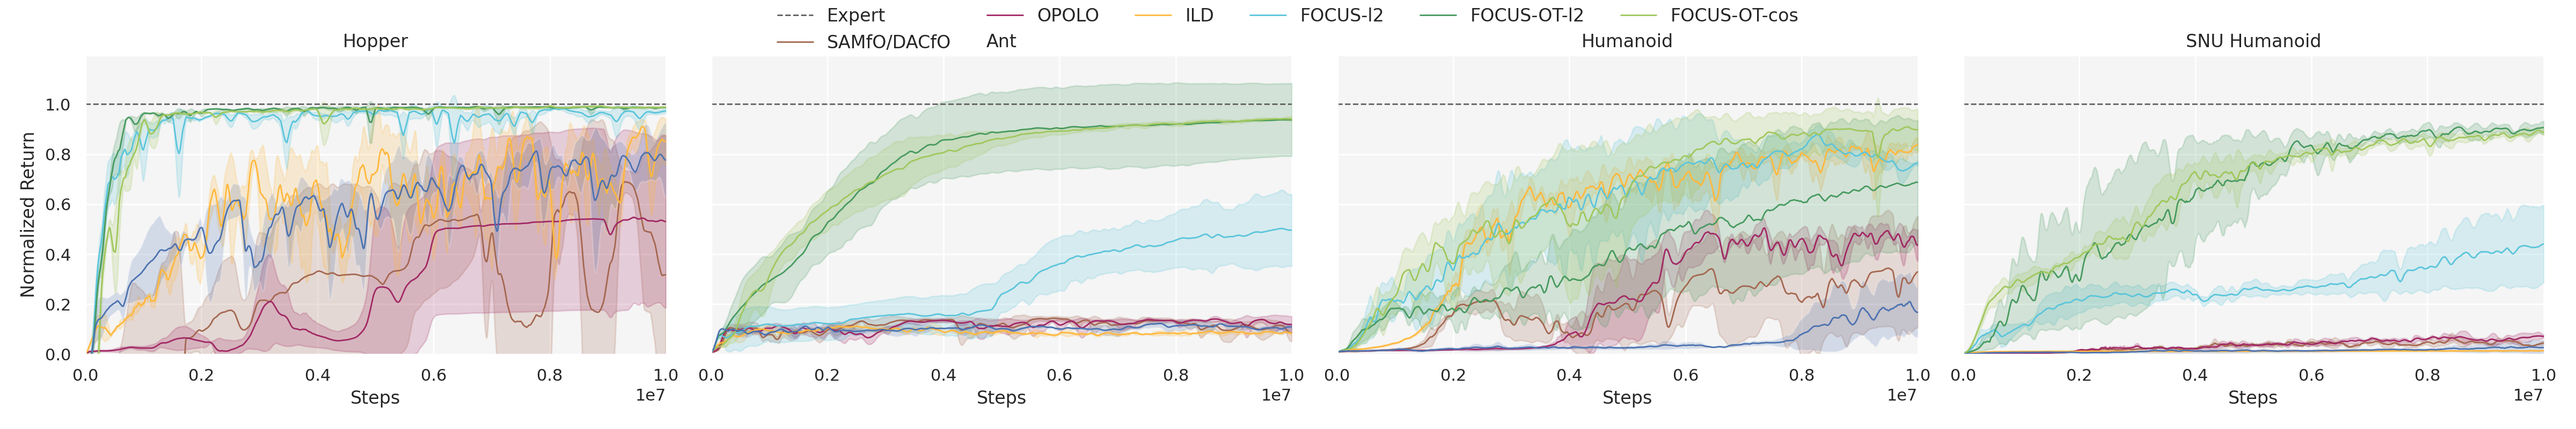
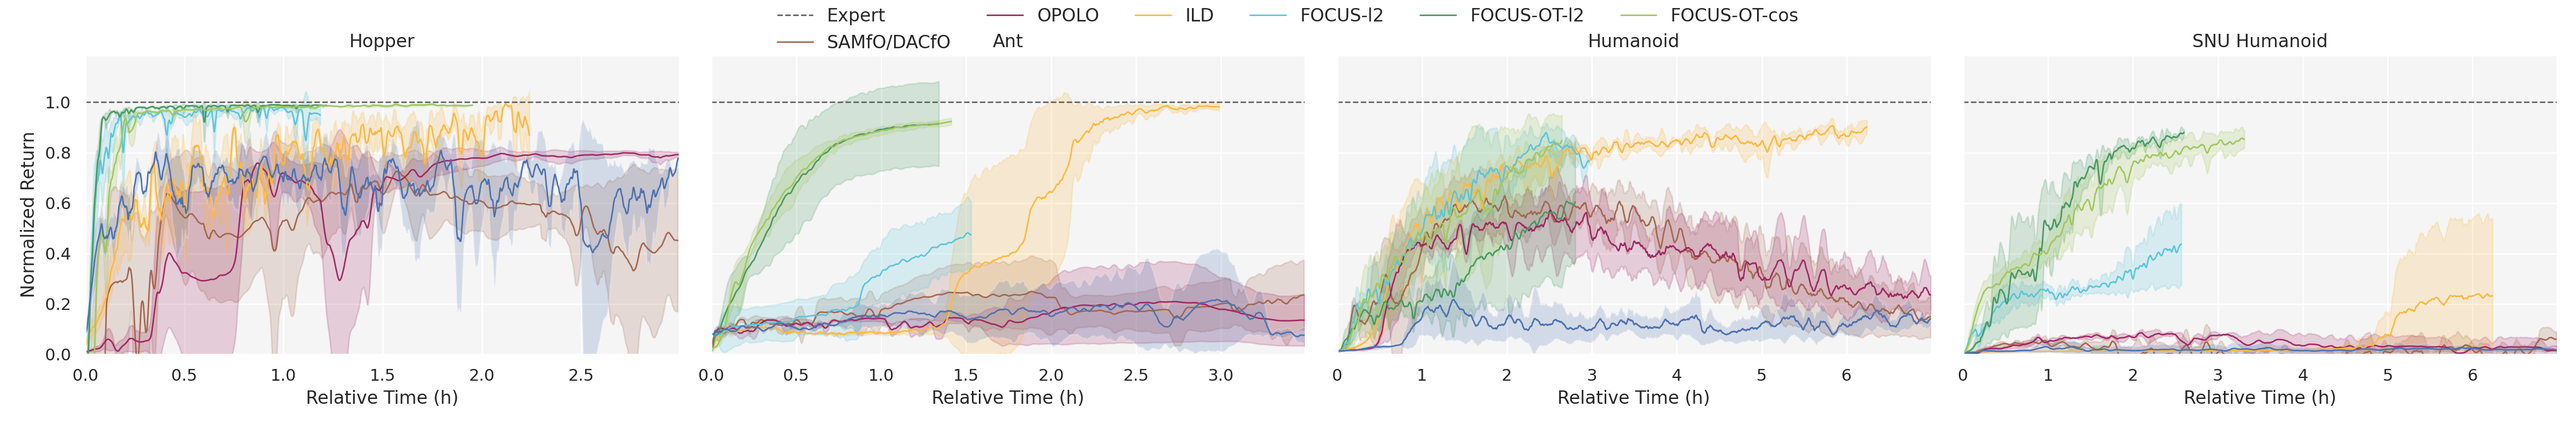
update

diff --git a/plotter/plotter.py b/plotter/plotter.py
@@ -86,6 +86,18 @@ def get_linestyle(algo_disp):
     return "-"
 
 
+def get_time_axis_max(env_data):
+    max_time = 0.0
+    for algo_name, algo_data in env_data.items():
+        for times in algo_data.get("agent_times", []):
+            max_time = max(max_time, max(times))
+
+    print("Max time across all algos:", max_time)
+    return max_time
+
+def convert_seconds_to_hours(seconds):
+    return seconds / 3600.0
+
 def plot_results_like_first(
     data,
     output_path,
@@ -100,10 +112,12 @@ def plot_results_like_first(
     shared_legend=True,  # one legend for the whole figure
     n_cols=4,
     ylim_bottom=0.0,
+    x_axis="steps",
 ):
     """data[env][algo] = {
         "data": [np.array(n_points), ...]  # per-seed
         "agent_steps": [...],
+        "agent_times": [...],
     }
     """
     if not data:
@@ -142,12 +156,20 @@ def plot_results_like_first(
             ax.set_visible(False)
             continue
 
-        if max_steps is not None and max_steps > 0:
-            x = np.linspace(0, max_steps, num=n_points)
-            x_label = "Steps"
-        else:
-            x = np.linspace(0.0, 1.0, num=n_points)
-            x_label = "Training progress"
+        x = None
+        x_label = None
+        if x_axis == "time":
+            max_time = get_time_axis_max(env_data)
+            max_time = convert_seconds_to_hours(max_time)
+            x = np.linspace(0, max_time, num=n_points)
+            x_label = "Relative Time (h)"
+        if x is None:
+            if max_steps is not None and max_steps > 0:
+                x = np.linspace(0, max_steps, num=n_points)
+                x_label = "Steps"
+            else:
+                x = np.linspace(0.0, 1.0, num=n_points)
+                x_label = "Training progress"
 
         # Expert mean for normalization / line
         expert_mean = None
@@ -181,8 +203,19 @@ def plot_results_like_first(
             algo_data = env_data[algo_key]
             if not algo_data["data"]:
                 continue
+            
+            agent_times = algo_data.get("agent_times", [])
+            agent_times = [convert_seconds_to_hours(t) for t in agent_times]
+            min_times_x = min([t[-1] for t in agent_times])
+            min_times_x_grid = np.linspace(0, min_times_x, num=n_points)
+            values = []
+            for i in range(len(algo_data["data"])):
+                times = agent_times[i]
+                returns = algo_data["data"][i]
+                ep_ret_inter = np.interp(min_times_x_grid, times, returns)
+                values.append(ep_ret_inter)
 
-            values = np.vstack(algo_data["data"])
+            values = np.vstack(values)
             mean = values.mean(axis=0)
             std = values.std(axis=0)
 
@@ -201,7 +234,7 @@ def plot_results_like_first(
             lw = 1 if algo_key.lower().startswith("focus") else 1
 
             ax.plot(
-                x,
+                min_times_x_grid,
                 mean,
                 label=algo_disp,
                 linewidth=lw,
@@ -209,7 +242,7 @@ def plot_results_like_first(
                 linestyle=linestyle,
             )
             ax.fill_between(
-                x,
+                min_times_x_grid,
                 mean - std,
                 mean + std,
                 alpha=0.2,
@@ -278,6 +311,7 @@ def plot_single_env(
     normalize_expert=True,
     add_expert_line=True,
     ylim_bottom=0.0,
+    x_axis="steps",
 ):
     """Plots a single environment into its own file.
     env_data is data[env_name] with the same structure as in plot_results_like_first.
@@ -300,12 +334,20 @@ def plot_single_env(
         plt.close(fig)
         return
 
-    if max_steps is not None and max_steps > 0:
-        x = np.linspace(0, max_steps, num=n_points)
-        x_label = "Steps"
-    else:
-        x = np.linspace(0.0, 1.0, num=n_points)
-        x_label = "Training progress"
+    x = None
+    x_label = None
+    if x_axis == "time":
+        x = get_time_axis_max(env_data)
+        print("TIME AXIS:", x)
+        if x is not None:
+            x_label = "Relative Time (min)"
+    if x is None:
+        if max_steps is not None and max_steps > 0:
+            x = np.linspace(0, max_steps, num=n_points)
+            x_label = "Steps"
+        else:
+            x = np.linspace(0.0, 1.0, num=n_points)
+            x_label = "Training progress"
 
     # Expert stats
     expert_mean = None
@@ -504,6 +546,7 @@ def main(
     sync_remote=False,
     update_group_runs=False,
     create_plots=False,
+    x_axis="time",
 ):
     plotter_dir = Path(__file__).resolve().parent
     grouped_exp_path = plotter_dir / "grouped_exp_urls.yaml"
@@ -545,6 +588,7 @@ def main(
             data[env_name][algo] = {
                 "data": [],
                 "agent_steps": [],
+                "agent_times": [],
             }
             for exp in algo_values:
                 local_dir = Path(exp["logdir"])
@@ -558,11 +602,24 @@ def main(
                     )
 
                 if create_plots:
+                    need_tb_reload = False
                     try:
                         ep_rew = np.load(local_dir / "my_ep_rewards_hist.npy")
                         steps = np.load(local_dir / "my_ep_steps_hist.npy")
                         times = np.load(local_dir / "my_ep_times_hist.npy")
-                    except:
+                        if x_axis == "time":
+                            if (
+                                ep_rew.size == 0
+                                or steps.size == 0
+                                or times.size == 0
+                                or ep_rew.size != steps.size
+                                or times.size != steps.size
+                            ):
+                                need_tb_reload = True
+                    except Exception:
+                        need_tb_reload = True
+
+                    if need_tb_reload:
                         # load tb file
                         tb_dir = local_dir / "tb"
 
@@ -603,7 +660,7 @@ def main(
                     print(times[:10])
                     print(len(steps), len(ep_rew), len(times))
 
-                    max_steps = MAX_STEPS_PER_ENV.get(env_name)
+                    max_steps = None if x_axis == "time" else MAX_STEPS_PER_ENV.get(env_name)
                     if max_steps is not None:
                         keep_mask = steps <= max_steps
                         steps = steps[keep_mask]
@@ -612,8 +669,6 @@ def main(
                     if steps.size == 0:
                         continue
 
-                    unique_steps, unique_idx = np.unique(steps, return_index=True)
-                    ep_rew = ep_rew[unique_idx]
 
                     print(steps[-1])
 
@@ -627,23 +682,40 @@ def main(
                         x_pad = np.pad(x, (pad, pad), mode="reflect")
                         kernel = np.ones(window, dtype=np.float64) / window
                         y = np.convolve(x_pad, kernel, mode="valid")
-                        return y
+                        return y[:-1]
 
                     n_points = 5000
-
-                    # Interpolate to a shared step grid
-                    if max_steps is None:
-                        max_steps = float(unique_steps[-1])
-                    step_grid = np.linspace(0, max_steps, num=n_points)
-                    ep_rew_inter = np.interp(step_grid, unique_steps, ep_rew)
+                    if x_axis == "time":
+                        print(f"Using wall time for {env_name} {algo}")
+                        rel_times = times - times[0]
+                        print(rel_times[:10])
+                        max_time = float(rel_times[-1])
+                        time_grid = np.linspace(0, max_time, num=n_points)
+                        ep_rew_inter = np.interp(time_grid, rel_times, ep_rew)
+                        step_grid = None
+                    elif x_axis == "steps":
+                        # Interpolate to a shared step grid
+                        if max_steps is None:
+                            max_steps = float(steps[-1])
+                        step_grid = np.linspace(0, max_steps, num=n_points)
+                        ep_rew_inter = np.interp(step_grid, steps, ep_rew)
+                    else:
+                        raise ValueError(f"Unknown x_axis: {x_axis}")
 
                     # Smooth AFTER interpolation
                     smooth_window = 50  # typical values: 15–50
                     ep_rew_inter = moving_average(ep_rew_inter, smooth_window)
 
                     data[env_name][algo]["data"].append(ep_rew_inter)
-                    data[env_name][algo]["agent_steps"].append(step_grid)
-                    print(env_name, algo, ep_rew.shape, step_grid[-1])
+                    if step_grid is not None:
+                        data[env_name][algo]["agent_steps"].append(step_grid)
+                    if time_grid is not None:
+                        data[env_name][algo]["agent_times"].append(time_grid)
+                    if x_axis == "time" and step_grid is None:
+                        last_x = max_time
+                    else:
+                        last_x = step_grid[-1]
+                    print(env_name, algo, ep_rew.shape, last_x)
 
     if create_plots:
         plot_path = plotter_dir / "plots" / "all_return.png"
@@ -658,6 +730,7 @@ def main(
             normalize_expert=True,
             add_expert_line=True,
             shared_legend=True,
+            x_axis=x_axis,
         )
 
         # One plot per environment
@@ -676,6 +749,7 @@ def main(
                 ENV_NAMES=ENV_NAMES,
                 normalize_expert=True,
                 add_expert_line=True,
+                x_axis=x_axis,
             )
 
         median_path = plotter_dir / "plots" / "median_rewards.png"
@@ -692,4 +766,4 @@ def main(
 
 if __name__ == "__main__":
     # sync exp from the remote server
-    main(sync_remote=False, update_group_runs=False, create_plots=True)
+    main(sync_remote=False, update_group_runs=False, create_plots=True, x_axis="time")
